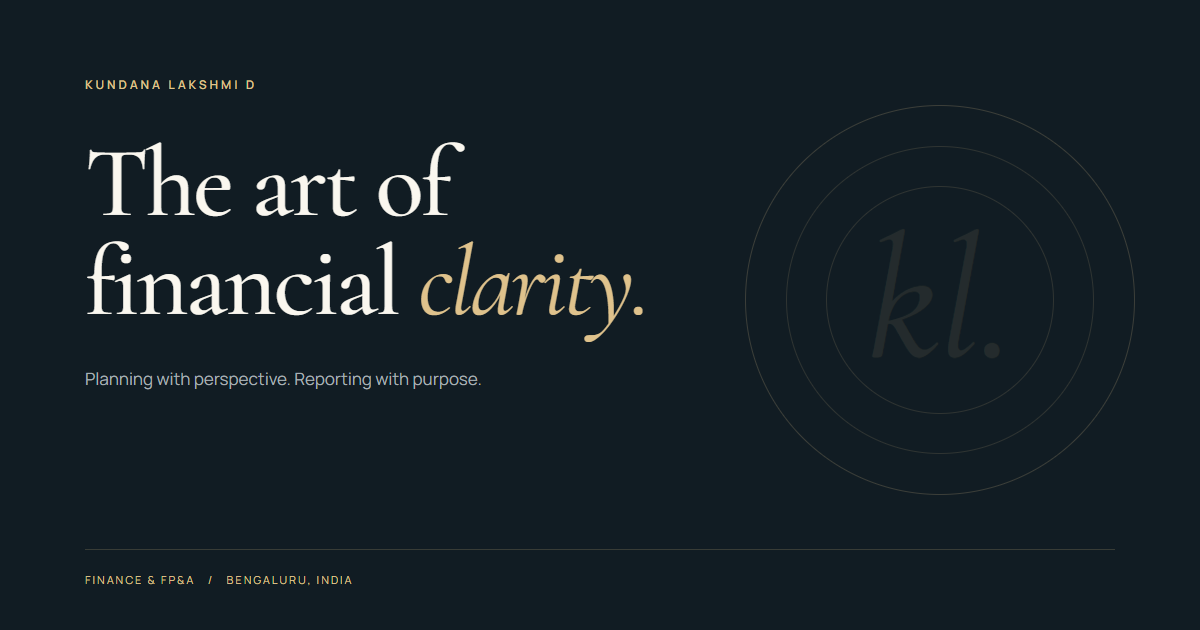
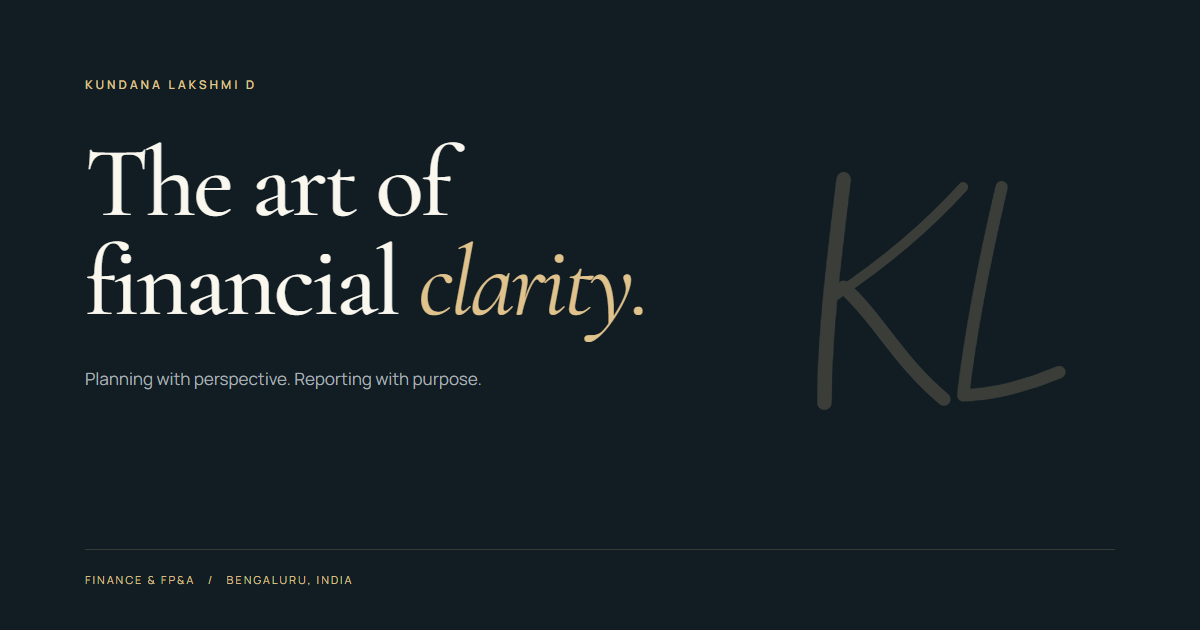
Refine personal monogram and add phone contact

Changed region(s): [[0.6783, 0.2714, 0.7708, 0.6635], [0.7708, 0.2714, 0.8942, 0.6635]]

diff --git a/index.html b/index.html
@@ -9,13 +9,13 @@
   <meta property="og:title" content="Kundana Lakshmi D | The art of financial clarity">
   <meta property="og:description" content="Planning with perspective. Reporting with purpose. A portfolio of finance, analysis and clear business thinking.">
   <meta property="og:url" content="https://kundanalakshmi.github.io/">
-  <meta property="og:image" content="https://kundanalakshmi.github.io/assets/social-preview.png">
+  <meta property="og:image" content="https://kundanalakshmi.github.io/assets/social-preview.png?v=2">
   <meta name="twitter:card" content="summary_large_image">
   <link rel="canonical" href="https://kundanalakshmi.github.io/">
-  <link rel="icon" href="assets/favicon.svg" type="image/svg+xml">
+  <link rel="icon" href="assets/favicon.svg?v=2" type="image/svg+xml">
   <link rel="preload" href="assets/fonts/cormorant-garamond-latin.woff2" as="font" type="font/woff2" crossorigin>
   <link rel="preload" href="assets/fonts/manrope-latin.woff2" as="font" type="font/woff2" crossorigin>
-  <link rel="stylesheet" href="style.css">
+  <link rel="stylesheet" href="style.css?v=2">
   <script src="app.js" defer></script>
   <title>Kundana Lakshmi D | Finance & FP&A</title>
 </head>
@@ -27,11 +27,12 @@
     <symbol id="download" viewBox="0 0 24 24"><path d="M12 3v12m-5-5 5 5 5-5M5 16v5h14v-5"/></symbol>
     <symbol id="mail" viewBox="0 0 24 24"><rect x="3" y="5" width="18" height="14" rx="2"/><path d="m3 6 9 7 9-7"/></symbol>
     <symbol id="copy" viewBox="0 0 24 24"><rect x="8" y="8" width="12" height="13" rx="2"/><path d="M16 8V3H3v13h5"/></symbol>
+    <symbol id="phone" viewBox="0 0 24 24"><path d="M8 3 4 5c-1 1-1 5 4 10s9 5 10 4l3-4-5-3-2 2c-2-1-4-3-5-5l2-2-3-4Z"/></symbol>
     <symbol id="spark" viewBox="0 0 24 24"><path d="M12 2c0 7-3 10-10 10 7 0 10 3 10 10 0-7 3-10 10-10-7 0-10-3-10-10Z"/></symbol>
   </defs></svg>
   <div id="scroll-progress" aria-hidden="true"></div>
   <header class="site-header">
-    <a class="brand" href="#home" aria-label="Kundana Lakshmi, home"><span class="brand-mark">kl<span>.</span></span><span class="brand-name">KUNDANA LAKSHMI<span>FINANCE & FP&A</span></span></a>
+    <a class="brand" href="#home" aria-label="Kundana Lakshmi, home"><span class="brand-mark"><img src="assets/kundana-monogram.svg" alt="" width="50" height="50"></span><span class="brand-name">KUNDANA LAKSHMI<span>FINANCE & FP&A</span></span></a>
     <nav class="desktop-nav" aria-label="Main navigation"><a href="#about">About</a><a href="#expertise">Expertise</a><a href="#journey">Journey</a><a href="#contact" class="nav-contact">Let’s connect <svg class="icon" aria-hidden="true"><use href="#external"/></svg></a></nav>
     <button id="menu-toggle" type="button" aria-label="Open navigation" aria-expanded="false" aria-controls="mobile-menu"><span></span><span></span></button>
     <nav id="mobile-menu" aria-label="Mobile navigation" hidden><a href="#about">About</a><a href="#expertise">Expertise</a><a href="#journey">Journey</a><a href="#contact">Let’s connect ↗</a></nav>
@@ -60,7 +61,7 @@
             <path class="insight-line" d="M58 353 120 339 158 359 202 298 247 315 289 239 339 259 398 194 445 210 504 151" stroke="url(#rising-line)" stroke-width="2"/>
             <g stroke="#dfc28c" stroke-width=".7" opacity=".5"><path d="M26 280h28m452 0h28M280 26v28m0 452v28"/><path d="m83 83 10 10m374 374 10 10M83 477l10-10m374-374 10-10"/></g>
           </svg>
-          <div class="orb-center"><span class="orb-monogram">k<span>l</span><i>.</i></span><span class="orb-caption">A CLEARER PERSPECTIVE</span></div>
+          <div class="orb-center"><span class="orb-monogram"><img src="assets/kundana-monogram.svg" alt="" width="148" height="148"></span><span class="orb-caption">A CLEARER PERSPECTIVE</span></div>
           <div class="floating-note note-one"><span class="note-icon">↗</span><div><strong>Planning with perspective</strong><span>Forecast. Review. Refine.</span></div></div>
           <div class="floating-note note-two"><span class="note-icon"><svg class="icon" aria-hidden="true"><use href="#spark"/></svg></span><div><strong>Insight into action</strong><span>The story behind the numbers.</span></div></div>
           <span class="orbit-word word-one">PLAN</span><span class="orbit-word word-two">ANALYZE</span><span class="orbit-word word-three">INFORM</span>
@@ -96,8 +97,8 @@
       <div class="additional-credentials reveal"><span>Project Finance Analyst Certificate</span><span>English · Telugu · Hindi</span><a href="assets/Kundana_Lakshmi_D_Resume.pdf" download>View full résumé <svg class="icon" aria-hidden="true"><use href="#download"/></svg></a></div>
     </section>
     <section class="toolkit section-light" aria-labelledby="toolkit-title"><div class="toolkit-grid"><div class="reveal"><span class="section-number">04 — THE TOOLKIT</span><h2 id="toolkit-title">Structure in the details.<br> <em>Clarity in the delivery.</em></h2></div><div class="toolkit-groups reveal"><div><span>01 / SYSTEMS & DELIVERY</span><p><span>SAP</span><span>MS Excel</span><span>MS PowerPoint</span></p></div><div><span>02 / PLANNING & INSIGHT</span><p><span>FP&A</span><span>Forecasting</span><span>KPI tracking</span><span>MIS reporting</span><span>Variance analysis</span></p></div><div><span>03 / ACCOUNTING & CONTROL</span><p><span>P&L</span><span>Balance sheet</span><span>Cash flow</span><span>Reconciliations</span><span>Revenue recognition</span></p></div></div></div></section>
-    <section class="contact section-dark" id="contact" aria-labelledby="contact-title"><div class="contact-glow" aria-hidden="true"></div><div class="contact-top reveal"><span class="section-number">05 — A CONVERSATION STARTS HERE</span><span class="contact-location"><span class="location-dot"></span> BENGALURU, INDIA</span></div><div class="contact-content reveal"><h2 id="contact-title">Let’s make the numbers<br> <em>mean something.</em></h2><p>For conversations about FP&A, reporting<br> and the next chapter in finance.</p><a class="button button-gold" href="mailto:lakshmidupaguntla12@gmail.com">Start a conversation <svg class="icon" aria-hidden="true"><use href="#external"/></svg></a><div class="contact-email"><a href="mailto:lakshmidupaguntla12@gmail.com">lakshmidupaguntla12@gmail.com</a><button type="button" id="copy-email" data-email="lakshmidupaguntla12@gmail.com" aria-label="Copy email address"><svg class="icon" aria-hidden="true"><use href="#copy"/></svg></button><span id="copy-status" role="status" aria-live="polite"></span></div></div><div class="contact-links reveal"><a href="https://www.linkedin.com/in/kundanadupaguntla/" target="_blank" rel="noopener noreferrer"><span>CONNECT PROFESSIONALLY</span><strong>LinkedIn <svg class="icon" aria-hidden="true"><use href="#external"/></svg></strong></a><a href="assets/Kundana_Lakshmi_D_Resume.pdf" download><span>THE COMPLETE PICTURE</span><strong>Download résumé <svg class="icon" aria-hidden="true"><use href="#download"/></svg></strong></a></div></section>
+    <section class="contact section-dark" id="contact" aria-labelledby="contact-title"><div class="contact-glow" aria-hidden="true"></div><div class="contact-top reveal"><span class="section-number">05 — A CONVERSATION STARTS HERE</span><span class="contact-location"><span class="location-dot"></span> BENGALURU, INDIA</span></div><div class="contact-content reveal"><h2 id="contact-title">Let’s make the numbers<br> <em>mean something.</em></h2><p>For conversations about FP&A, reporting<br> and the next chapter in finance.</p><a class="button button-gold" href="mailto:lakshmidupaguntla12@gmail.com">Start a conversation <svg class="icon" aria-hidden="true"><use href="#external"/></svg></a><div class="contact-email"><a href="mailto:lakshmidupaguntla12@gmail.com">lakshmidupaguntla12@gmail.com</a><button type="button" id="copy-email" data-email="lakshmidupaguntla12@gmail.com" aria-label="Copy email address"><svg class="icon" aria-hidden="true"><use href="#copy"/></svg></button><span id="copy-status" role="status" aria-live="polite"></span></div><a class="contact-phone" href="tel:+917013330203"><svg class="icon" aria-hidden="true"><use href="#phone"/></svg><span>+91 7013330203</span></a></div><div class="contact-links reveal"><a href="https://www.linkedin.com/in/kundanadupaguntla/" target="_blank" rel="noopener noreferrer"><span>CONNECT PROFESSIONALLY</span><strong>LinkedIn <svg class="icon" aria-hidden="true"><use href="#external"/></svg></strong></a><a href="assets/Kundana_Lakshmi_D_Resume.pdf" download><span>THE COMPLETE PICTURE</span><strong>Download résumé <svg class="icon" aria-hidden="true"><use href="#download"/></svg></strong></a></div></section>
   </main>
-  <footer><a class="brand-mark" href="#home" aria-label="Back to top">kl<span>.</span></a><p>© <span id="year">2026</span> Kundana Lakshmi D</p><span>Made with perspective <svg class="icon" aria-hidden="true"><use href="#spark"/></svg></span><a class="back-top" href="#home">Back to top ↑</a></footer>
+  <footer><a class="brand-mark" href="#home" aria-label="Back to top"><img src="assets/kundana-monogram.svg" alt="" width="42" height="42"></a><p>© <span id="year">2026</span> Kundana Lakshmi D</p><span>Made with perspective <svg class="icon" aria-hidden="true"><use href="#spark"/></svg></span><a class="back-top" href="#home">Back to top ↑</a></footer>
 </body>
 </html>

diff --git a/style.css b/style.css
@@ -22,3 +22,9 @@
 .desktop-nav{font-size:12px}.about-copy>p:not(.lead),.expertise-card>p,.experience-summary{font-size:13px;line-height:1.9}.expertise-card>p{min-height:110px}.experience-details p{font-size:12px;line-height:1.9}.card-detail,.expertise-card .card-detail{font-size:10px}#lens-text,.lens-intro>p{font-size:12px}.lens-process p{font-size:9px}.section-intro>p,.contact-content>p{font-size:13px}.toolkit-groups p>span{font-size:11px}.contact-email>a{font-size:11px}.hero-role{font-size:10px}.credentials-strip div>span{font-size:8px}.recognition div>span:not(.eyebrow){font-size:11px}.education-card p{font-size:11px}.additional-credentials{font-size:10px}.contact-links>a>span{font-size:8px}
 @media(max-width:700px){.hero-role{font-size:9px}.expertise-card>p{min-height:0}.expertise-card .card-detail br{display:block}.lens-process p{font-size:9px}.credentials-strip div>span{font-size:7px}.contact-links>a>span{font-size:6px}.additional-credentials>span,.additional-credentials>a{font-size:9px}.hero-actions .button{font-size:10px}.hero-actions .text-link{font-size:10px}}
 @media(max-width:375px){.hero-role{font-size:8px}.hero-actions .button,.hero-actions .text-link{font-size:9px}.contact-email>a{font-size:10px}}
+/* A custom pen-stroke monogram, without a decorative dot. */
+.brand-mark{display:inline-flex;align-items:center;justify-content:center;width:50px;height:50px;flex-shrink:0;font:inherit;letter-spacing:normal}.brand-mark img{width:100%;height:100%;object-fit:contain}.orb-monogram{display:block;width:148px;height:148px;margin:0;font:inherit;letter-spacing:normal}.orb-monogram img{width:100%;height:100%;object-fit:contain}footer>.brand-mark{width:42px;height:42px}.contact-phone{display:inline-flex;align-items:center;gap:10px;margin-top:26px;padding:5px 9px;color:var(--gold);font-size:13px;line-height:1.8;transition:color .2s}.contact-phone:hover{color:#eed7ac}.contact-phone .icon{width:16px;height:16px}
+@media(max-width:1100px){.orb-monogram{width:128px;height:128px}}
+@media(max-width:900px){.orb-monogram{width:108px;height:108px}}
+@media(max-width:700px){.brand-mark{width:44px;height:44px}.orb-monogram{width:112px;height:112px}.contact-phone{font-size:12px}footer>.brand-mark{width:36px;height:36px}}
+@media(max-width:375px){.orb-monogram{width:100px;height:100px}}
